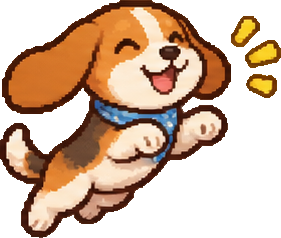
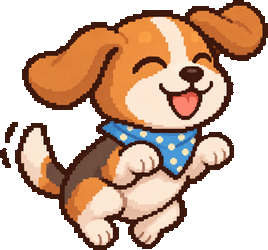
New happy art for shiba, beagle and parrot to match their tap animations
Claude-Session: https://claude.ai/code/session_016CQekzpGhANorfRCZx2is2

diff --git a/index.html b/index.html
@@ -430,9 +430,9 @@ const isLive=()=>MODE==='live';
 
 /* ---------- mascots ---------- */
 const PETS={
-  shiba:{label:'柴犬',def:'小柴',tap:'huff',h:{idle:256,happy:258,sleep:208,alert:252}},
-  beagle:{label:'米格魯',def:'豆豆',tap:'hop2',h:{idle:219,happy:238,sleep:203,alert:241}},
-  parrot:{label:'鸚鵡',def:'啾啾',tap:'dance',h:{idle:185,happy:218,sleep:175,alert:199}},
+  shiba:{label:'柴犬',def:'小柴',tap:'huff',h:{idle:256,happy:270,sleep:208,alert:252}},
+  beagle:{label:'米格魯',def:'豆豆',tap:'hop2',h:{idle:219,happy:250,sleep:203,alert:241}},
+  parrot:{label:'鸚鵡',def:'啾啾',tap:'dance',h:{idle:185,happy:262,sleep:175,alert:199}},
   /* 4th mascot: hidden from the picker until assets/cat_idle.png exists; sizes are read from the images */
   cat:{label:'貓咪',def:'捨令',tap:'rub',lie:{sleep:1},h:{idle:256,happy:256,sleep:200,alert:256},auto:true}};
 const AVAIL={shiba:true,beagle:true,parrot:true};

diff --git a/sw.js b/sw.js
@@ -1,5 +1,5 @@
 // 像素行程夥伴 service worker：離線快取。改了檔案後把 VERSION 加 1，手機才會抓到新版。
-const VERSION='v22';
+const VERSION='v23';
 const CACHE='pixel-pal-'+VERSION;
 const CORE=['./','index.html','manifest.webmanifest','icons/icon-192.png','icons/icon-512.png','icons/apple-touch-icon.png','vendor/supabase-2.118.0.js',
   'assets/badge.png',
